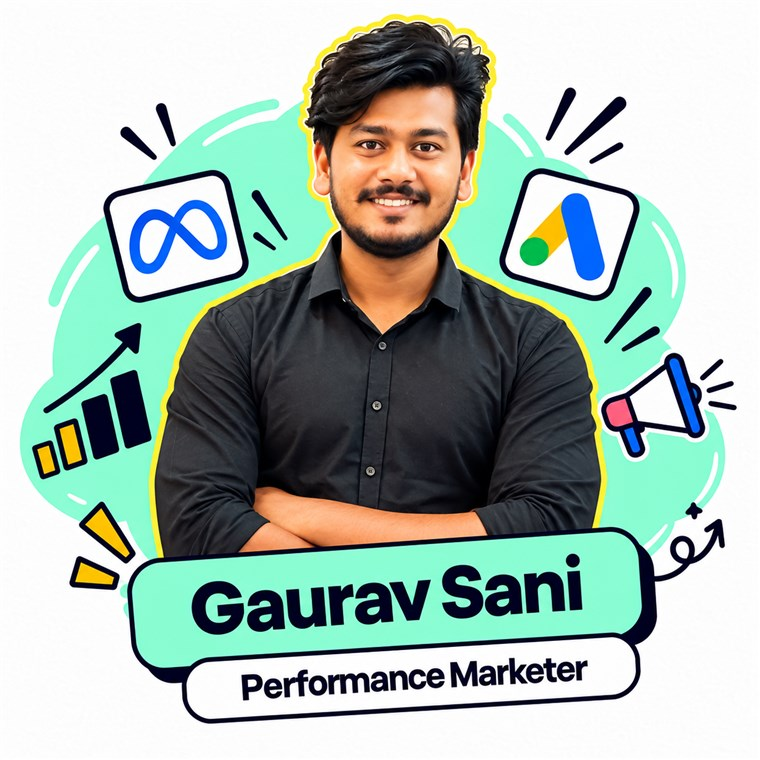
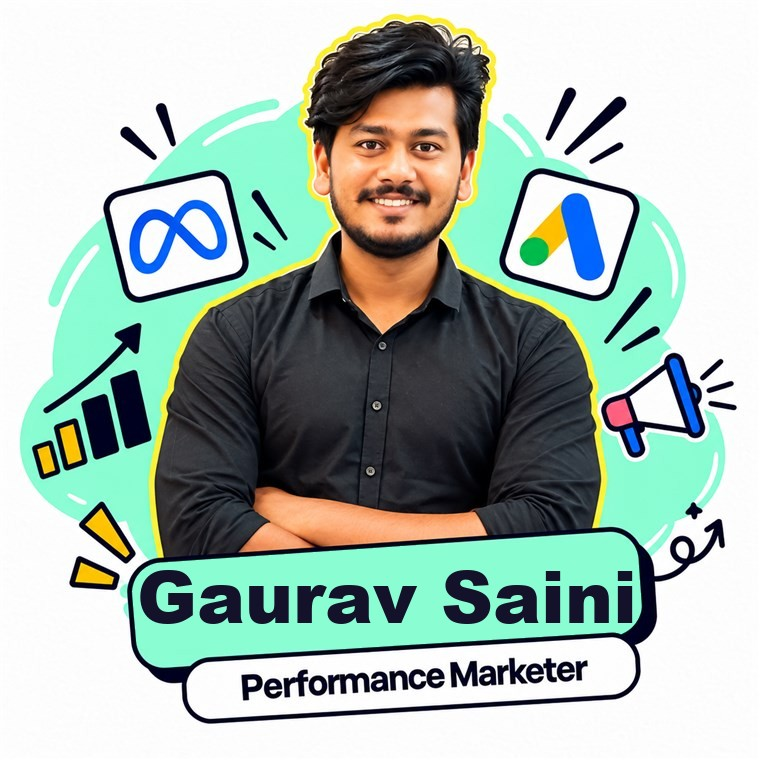
Fix "Gaurav Sani" to "Gaurav Saini" on the expert card badge
The name was misspelled in the baked badge image text as well as
the alt text and accessible name. Re-rendered just the name pill's
text in place, keeping the pill shape, shadow and border pixel-for-
pixel identical to the original.

Changed region(s): [[0.1816, 0.7263, 0.8474, 0.8474]]

diff --git a/index.html b/index.html
@@ -197,7 +197,7 @@ nav ul{position:absolute;top:100%;left:0;right:0;background:var(--ink);flex-dire
 <div class="three">
 <div class="box"><img class="pf" src="home-art/yogesh-badge.jpg" width="760" height="760" loading="lazy" alt="Yogesh Sehgal, Performance Marketer"><h3 class="sr">Yogesh Sehgal</h3><b class="sr">Performance Marketer</b><p>Plans and runs Meta and Google Ads, adjusting spend to what the data supports.</p><a class="btn pbtn" href="yogesh.html" aria-label="View Yogesh's portfolio">View portfolio <span>→</span></a></div>
 <div class="box"><img class="pf" src="home-art/akshara-badge.jpg" width="760" height="760" loading="lazy" alt="Akshara Singh, Brand Manager"><h3 class="sr">Akshara Singh</h3><b class="sr">Brand Manager</b><p>Builds brand and social roadmaps for clients in India, the USA and the UAE.</p><a class="btn pbtn" href="akshara.html" aria-label="View Akshara's portfolio">View portfolio <span>→</span></a></div>
-<div class="box"><img class="pf" src="home-art/gaurav-badge-new.jpg" width="760" height="760" loading="lazy" alt="Gaurav Sani, Performance Marketer"><h3 class="sr">Gaurav Sani</h3><b class="sr">Performance Marketer</b><p>Runs paid campaigns across Meta and Google, and builds the websites behind them.</p><a class="btn pbtn" href="gaurav.html" aria-label="View Gaurav's portfolio">View portfolio <span>→</span></a></div>
+<div class="box"><img class="pf" src="home-art/gaurav-badge-new.jpg" width="760" height="760" loading="lazy" alt="Gaurav Saini, Performance Marketer"><h3 class="sr">Gaurav Saini</h3><b class="sr">Performance Marketer</b><p>Runs paid campaigns across Meta and Google, and builds the websites behind them.</p><a class="btn pbtn" href="gaurav.html" aria-label="View Gaurav's portfolio">View portfolio <span>→</span></a></div>
 </div></div></section>
 
 <section id="contact"><div class="wrap"><div class="cwrap">
